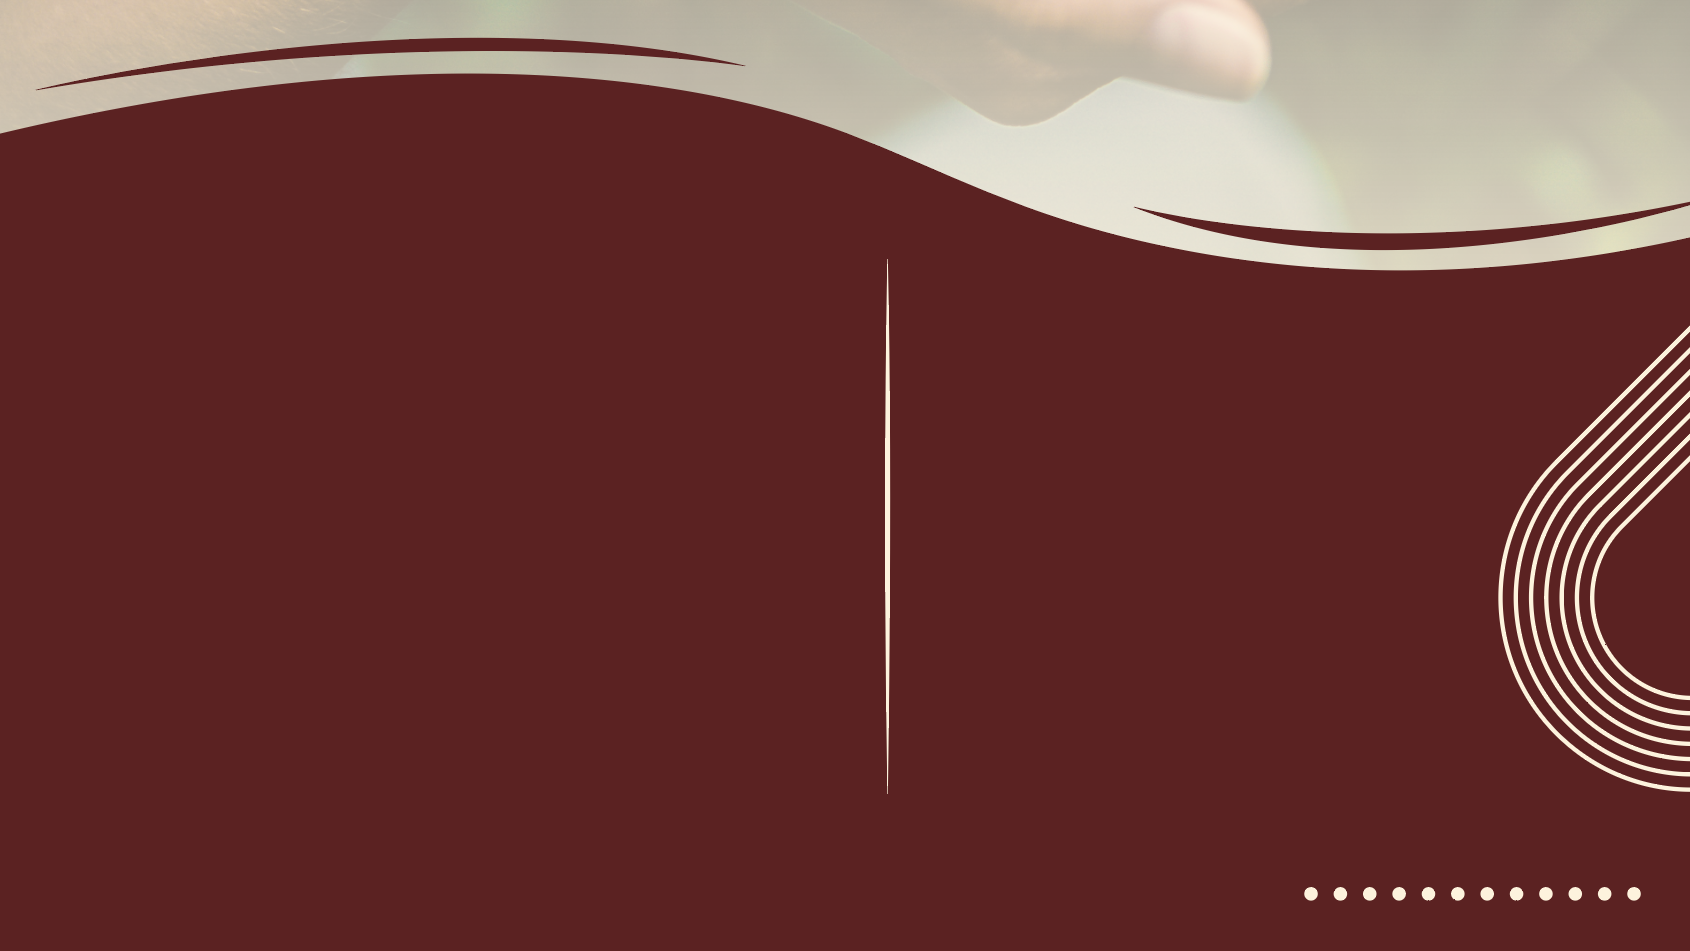
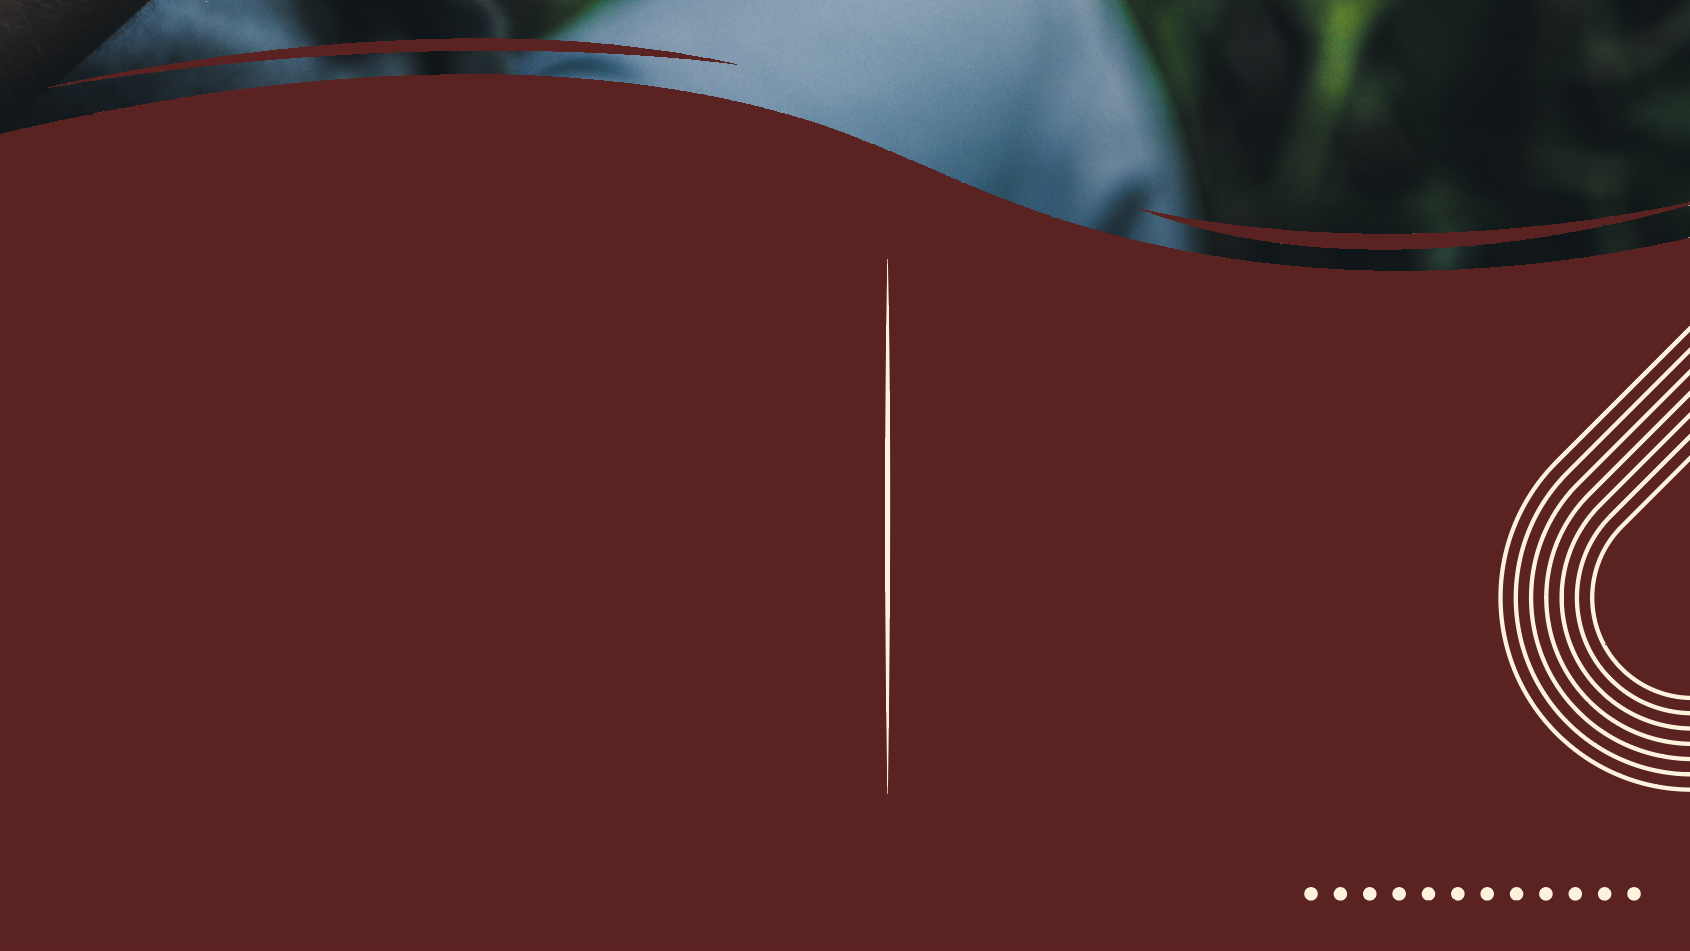
Juntando as paginas

Changed region(s): [[0.0, 0.0, 1.0, 0.3049]]

diff --git a/Algoritmos/SiteInstitucional_Juntando/inicial.html b/Algoritmos/SiteInstitucional_Juntando/inicial.html
@@ -7,6 +7,7 @@
     <title>Document</title>
     <link rel="stylesheet" href="assets/css/inicial.css">
     <link rel="stylesheet" type="text/css" href="assets/css/header.css">
+    <link rel="stylesheet" href="assets/css/sobre_O_projeto.css">
 </head>
 
 <body>
@@ -51,6 +52,43 @@
         <img src="assets/img/Logo_Escuro.png" class="imgCoguIni" ;>
 
 
+    </div>
+
+    <div class="pagina" id="pg2">
+
+        <div class="degrade"></div>
+
+        <div class="divcard Projeto">
+        <h1 class="Titulo">O projeto</h1>
+        <p>
+            O sistema da MushRoom Company representa uma solução avançada
+            para a coleta e armazenamento de dados cruciais de temperatura e
+            umidade, que desempenham um papel essencial no controle e desenvolvimento
+            de cogumelos em suas instalações
+            de produção. Para esta
+            finalidade, utilizamos sensores DHT11 de alta precisão,
+            cuidadosamente posicionados nos galpões de produção, que coletam
+            dados em tempo real e os armazenam de forma organizada em nosso
+            banco de dados central.
+        </p>
+        <p>Através da implementação deste monitoramento automatizado, a
+            MushRoom Company assegura um aumento notável de até 57%
+            na produção de cogumelos prontos para comercialização. Essa
+            melhoria substancial não apenas otimiza o processo de cultivo, mas
+            também garante um maior rendimento e qualidade dos cogumelos,
+            proporcionando resultados sólidos e consistentes aos nossos clientes
+        </p>
+
+
+    </div>
+
+    <div class="divcard sensores">
+
+        <h1 class="Titulo">SENSORES</h1>
+
+        <img src="assets/img/Temperatura_umidadeIMG.png">
+    </div>
+        
     </div>
 
 </body>

diff --git a/Algoritmos/SiteInstitucional_Juntando/detalhes_do_Projeto.html b/Algoritmos/SiteInstitucional_Juntando/detalhes_do_Projeto.html
@@ -5,40 +5,10 @@
     <meta charset="UTF-8">
     <meta name="viewport" content="width=device-width, initial-scale=1.0">
     <title>Document</title>
-    <link rel="stylesheet" href="assets/css/sobre_O_projeto.css">
 </head>
 
 <body>
-    <div class="divcard Projeto">
-        <h1>O projeto</h1>
-        <p>
-            O sistema da MushRoom Company representa uma solução avançada
-            para a coleta e armazenamento de dados cruciais de temperatura e
-            umidade, que desempenham um papel essencial no controle e desenvolvimento
-            de cogumelos em suas instalações
-            de produção. Para esta
-            finalidade, utilizamos sensores DHT11 de alta precisão,
-            cuidadosamente posicionados nos galpões de produção, que coletam
-            dados em tempo real e os armazenam de forma organizada em nosso
-            banco de dados central.
-        </p>
-        <p>Através da implementação deste monitoramento automatizado, a
-            MushRoom Company assegura um aumento notável de até 57%
-            na produção de cogumelos prontos para comercialização. Essa
-            melhoria substancial não apenas otimiza o processo de cultivo, mas
-            também garante um maior rendimento e qualidade dos cogumelos,
-            proporcionando resultados sólidos e consistentes aos nossos clientes
-        </p>
-
-
-    </div>
-
-    <div class="divcard sensores">
-
-        <h1>SENSORES</h1>
-
-        <img src="assets/img/Temperatura_umidadeIMG.png">
-    </div>
+    
 
 </body>
 

diff --git a/Algoritmos/SiteInstitucional_Juntando/assets/css/cadastro.css b/Algoritmos/SiteInstitucional_Juntando/assets/css/cadastro.css
@@ -1,11 +1,12 @@
-@import url('https://fonts.googleapis.com/css2?family=Poppins:wght@600&display=swap');
+@font-face {
+    font-family: Bwrlin Sans FB Demi Bold;
+    src: local(Bwrlin Sans FB Demi Bold), url(../fonts/berlin-sans-fb-demi-bold.ttf);
+}
 
 * {
     margin: 0;
     padding: 0;
-    border: none;
     box-sizing: border-box;
-    font-family: 'Poppins', sans-serif;
 }
 
 body {
@@ -55,6 +56,8 @@ span {
     color: black;
     height: 30px;
     padding-top: 17px;
+    margin-top: 5px;
+    width: 65%;
 }
 
 span {
@@ -63,8 +66,11 @@ span {
     cursor: default;
     height: 45px;
     font-size: 30px;
-    width: 350px;
+    width: 370px;
     margin: 13px;
+    padding-left: 5px;
+    display: flex;
+    justify-content: space-between;
 
 }
 

diff --git a/Algoritmos/SiteInstitucional_Juntando/assets/css/inicial.css b/Algoritmos/SiteInstitucional_Juntando/assets/css/inicial.css
@@ -23,10 +23,22 @@ body {
 
 
 #pg1 {
-    background-image: linear-gradient(rgba(255, 255, 255, 0.356), rgba(255, 255, 255, 0.877)), url(../img/backgroundInicial.jpg);
-    ;
+    background-image: linear-gradient(rgba(255, 255, 255, 0.356), rgba(255, 255, 255, 0.700)), url(../img/backgroundInicial.jpg);;
     background-repeat: no-repeat;
     background-size: cover;
+}
+
+#pg2{
+    background-image: url(../img/Background_detalhes_do_projeto.png);;
+    background-repeat: no-repeat;
+    background-size: cover; 
+}
+
+.degrade{
+    background-image: linear-gradient(rgba(255, 255, 255, 0.700), rgba(255, 255, 255, 0.0));
+    width: 100%;
+    height: 300px;
+    position: absolute;
 }
 
 .imgCoguIni {

diff --git a/Algoritmos/SiteInstitucional_Juntando/assets/css/sobre_O_projeto.css b/Algoritmos/SiteInstitucional_Juntando/assets/css/sobre_O_projeto.css
@@ -4,9 +4,6 @@
 }
 
 body {
-    background-image: url(../img/Background_detalhes_do_projeto.png);
-    background-repeat: no-repeat;
-    background-size: cover;
 }
 
 @font-face {
@@ -41,7 +38,7 @@ body {
 }
 
 
-h1 {
+.Titulo{
     font-size: 80px;
     padding-bottom: 40px;
     font-family: Bwrlin Sans FB Demi Bold;
